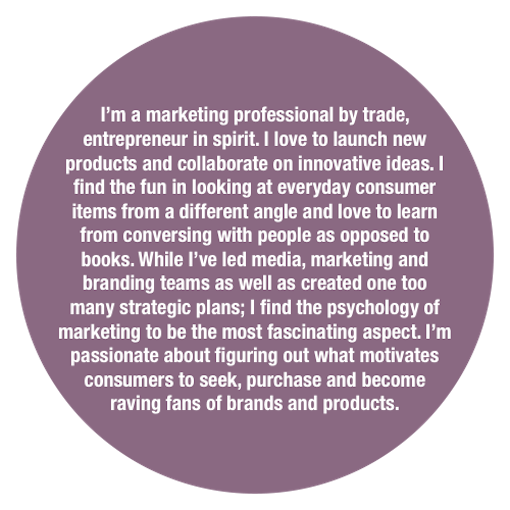
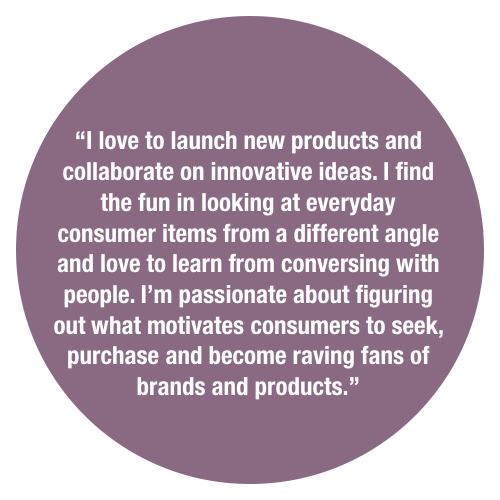
new title font

diff --git a/index.html b/index.html
@@ -30,8 +30,8 @@
         
         <div class="jumbotron">
             <div class="container">
-                <h1>Bright <span3>Ideas</span3></h1>
-                <p>shining a light on innovation</p>
+                <img src="images/bright_ideas.svg">
+                <p>we shine light on innovation</p>
             </div>    
         </div>
         
@@ -59,20 +59,22 @@
         
         <div class="main">
             <div class="container">
-                <h1>Nice to meet you</h1>
+                <h1>- Nice to meet you -</h1>
                 <div class="row">
                     <div class="col-sm-4 col-xs-12">
                         <img src="images/julie.png">
-                        <img class="words" src="images/j_hover.png">
+                        <div class="hover-text"><p><br>"I love to launch new products and collaborate on innovative ideas. I find the fun in looking at everyday consumer items from a different angle and love to learn from conversing with people. I'm passionate about figuring out what motivates consumers to seek, purchase and become raving fans of brands and products."</p></div>
                     </div>
                     <div class="col-sm-8 col-xs-12">
-                        <p><span>Julie Galich</span><br><span2> Sales / Marketing</span2><br>Julie is a marketing and media professional with over 18 years' experience helping clients define media objectives and delivering strategic marketing plans that actively engage consumers and drive sales. She has directed media, promotional, and marketing programs for Fortune 500 clients in a variety of industries including: QSR, fast casual, healthcare, consumer products, beverage, automotive, tourism and hospitality, and telecommunications.<br><br>Julie has successfully led cross-functional partners, advertising agencies, and franchisees to develop high performing national and local marketing programs. She has significant experience creating, testing, and launching new products and brands with integrated marketing campaigns leveraging both traditional and emerging media. <br><br>Recognized as a media all-star by MediaWeek publication, received the Y&R "Rising Star" award, has earned the AT+T account leadership designation, was awarded the promotional planning and execution award for an account with billings in excess of $30 million in 2006, and received the <em>Marketer of the Year</em> award from Focus Brands in 2014.
+                        <p><span>Julie Galich</span><br><span2> Sales / Marketing</span2><br>Julie is a marketing and media professional with over 18 years' experience helping clients define media objectives and delivering strategic marketing plans that drive sales. She has directed media, promotional, and marketing programs for Fortune 500 clients in a variety of industries including: QSR, fast casual, healthcare, consumer products, beverage, automotive, tourism and hospitality, and telecommunications.
+                        <br><br>Julie has successfully led cross-functional partners, advertising agencies, and franchisees to develop high performing national and local marketing programs. She has significant experience creating, testing, and launching new products and brands.<br><br>Julie is recognized as a media all-star by MediaWeek publication, received the Y&R "Rising Star" award, has earned the AT+T account leadership designation, was awarded the promotional planning and execution award for an account with billings in excess of $30 million in 2006, and received the <em>Marketer of the Year</em> award from Focus Brands in 2014.
                         </p>
                     </div>
                 </div>
                 <div class="row">
                     <div class="col-xs-12 col-md-4 pull-right">
                         <img src="images/stacey.png">
+                        <div class="hover-text" id="stacey"><p><br>"I love to launch new products and collaborate on innovative ideas. I find the fun in looking at everyday consumer items from a different angle and love to learn from conversing with people. I'm passionate about figuring out what motivates consumers to seek, purchase and become raving fans of brands and products."</p></div>
                     </div>
                     <div class="col-xs-12 col-md-8 pull-left">
                         <p><span>Stacey Kirsch</span><br><span2>product / distribution</span2><br>Stacey is an entrepreneur skilled at innovating brand strategies for a wide range of products, including her own pioneering product, FlexFlop. She developed the first footwear product of its kind overseeing all aspects from design to manufacturing and marketing. She identified multiple ways to monetize the business, devising strategies that ultimately resulted in A-list celebrity endorsements, front-page press and television appearances. <br><br>This behind-the-scenes perspective has helped her understand how to elevate and sustain a brand within multiple national and international markets.</p>
@@ -81,6 +83,7 @@
                 <div class="row">
                     <div class="col-sm-4 col-xs-12">
                         <img src="images/Stephanie.png">
+                        <div class="hover-text" id="steph"><p><br>"I love to launch new products and collaborate on innovative ideas. I find the fun in looking at everyday consumer items from a different angle and love to learn from conversing with people. I'm passionate about figuring out what motivates consumers to seek, purchase and become raving fans of brands and products."</p></div>
                     </div>
                     <div class="col-sm-8 col-xs-12">
                         <p><span>Stephanie Houng</span>
@@ -98,5 +101,4 @@
             <p>&copy; Plum Society</p>
         </div>
     </body>
-    
 </html>

diff --git a/style.css b/style.css
@@ -100,10 +100,11 @@ a:hover {
 .jumbotron h1 {
     font-weight: 800 !important;
     text-transform: uppercase;
-    font-size: 80px !important;
+    font-size: 70px !important;
+    letter-spacing: 10px;
     }
 
-.jumbotron p{
+.jumbotron p {
     font-size: 50px !important;
     font-weight: 300 !important;
     font-family: 'Over the Rainbow', cursive;
@@ -111,12 +112,13 @@ a:hover {
 }
 
 .supporting {
-    height: 420px;
+    height: 460px;
     color: #616161 !important;
     text-align: center;
 }
 
 .supporting .container {
+    margin: 40px auto;
     width: 90%;
 }
 
@@ -129,11 +131,12 @@ a:hover {
     text-transform: uppercase;
 }
 .supporting p {
-    padding: 20px;
+    padding: 15px;
+    font-size: 17px;
 }
 
 .main {
-    height: 1400px;
+    height: 1600px;
     width: 100%;   
     background-image: linear-gradient(rgba(124,103,132,.8), rgba(124,103,132,.8)),url("images/main.jpg");
     background-position: center;
@@ -148,7 +151,7 @@ a:hover {
 
 .main .row {
     padding: 10px;
-    margin: 20px 0;
+    margin: 10px 0;
 }
 
 .main h1 {
@@ -162,19 +165,47 @@ a:hover {
 }
 
 .main img {
-    height: 350px;
-    margin: 0;
+    height: 370px;
+    margin: 20px 0;
     padding: 0;
     cursor: pointer;
 }
 
-.words {
+.hover-text {
+    width: 352px;
+    height: 352px;
+    background: #271826;
     position: absolute;
-    height: 356px !important;
-    top: -2.6px;
-    left: 42px;
-    opacity: .01;
-    cursor: pointer;
+    top: 29px;
+    left: 44px;
+    border-radius: 50%;
+    opacity: 0;
+    padding: 20px;
+    transition: opacity .25s ease-in-out;
+   -moz-transition: opacity .25s ease-in-out;
+   -webkit-transition: opacity .25s ease-in-out;
+}
+
+.hover-text p {
+    text-align: center !important;
+    font-weight: 600;
+    margin: 40px 8px;
+    padding: 0 !important;
+}
+
+.hover-text:hover { opacity: .9 }
+
+#stacey {
+    height: 361px;
+    width: 361px;
+    margin: -7px -5px !important;
+    
+}
+
+#steph {
+    height: 348px;
+    width: 348px;
+    margin: 2px 2px;
 }
 
 .main h4 {
@@ -192,7 +223,7 @@ a:hover {
 }
 
 .footer {
-    height: 250px;
+    height: 280px;
     width: 100%;
     margin: -20px 0px;
     background-color: #333;
@@ -200,7 +231,7 @@ a:hover {
 }
 
 .footer h2 {
-    padding: 40px;
+    padding: 50px;
     color: #fff !important;
 }
 
@@ -232,7 +263,7 @@ a:hover {
 
 .footer p {
     text-align: right;
-    margin: 40px;
+    margin: 40px 50px;
     text-transform: uppercase;
     color: #fff !important;
     font-size: 15px;
@@ -348,3 +379,7 @@ a:hover {
   and (-webkit-min-device-pixel-ratio: 1) {
 
 }
+
+@media (max-width: 320px){}
+this would be for your mobile
+@media(max-width:767px) and (min-width: 320px){}
